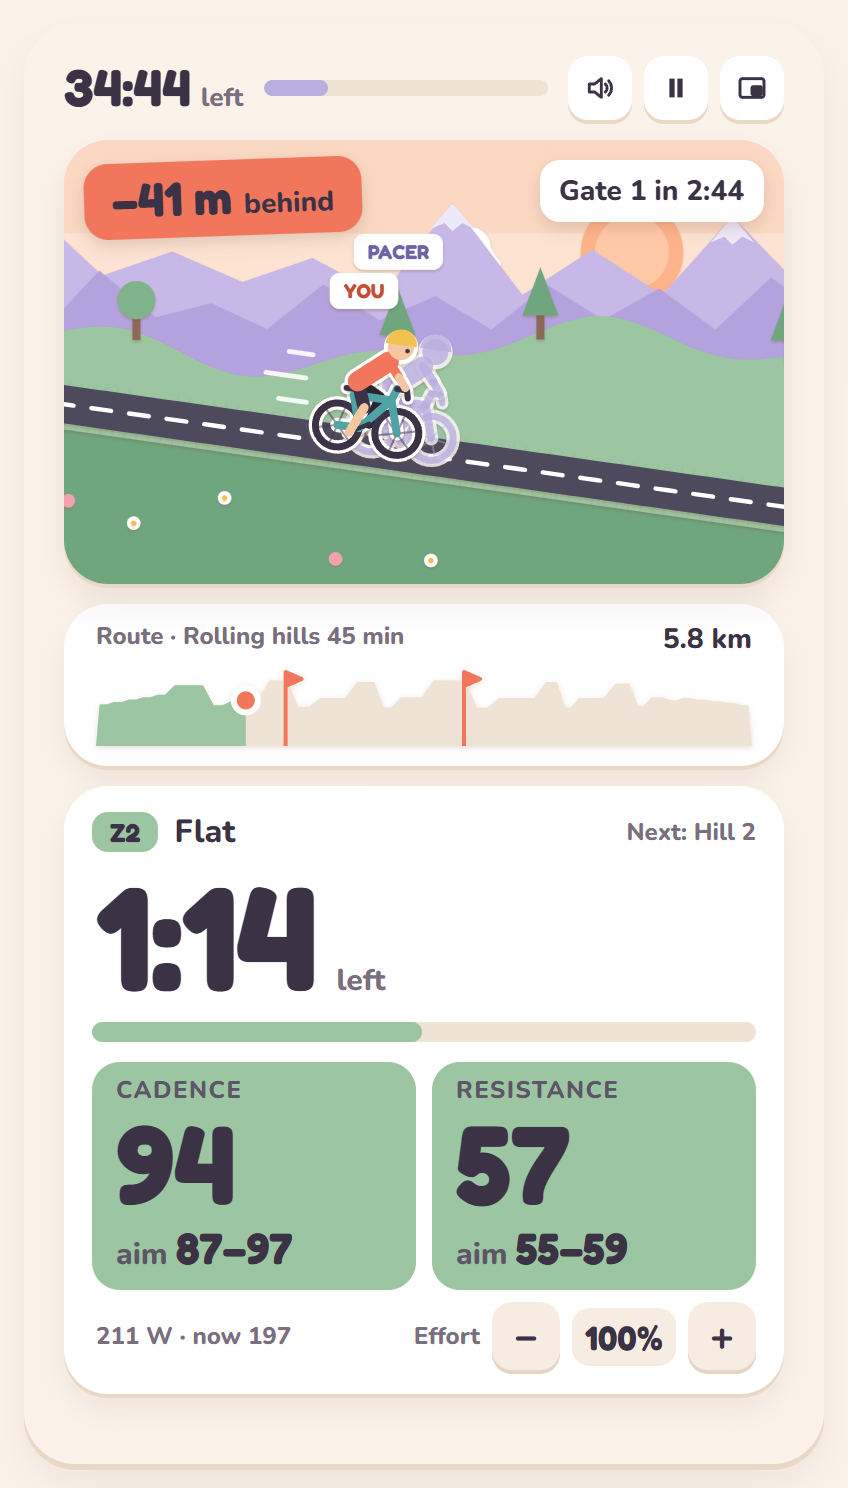
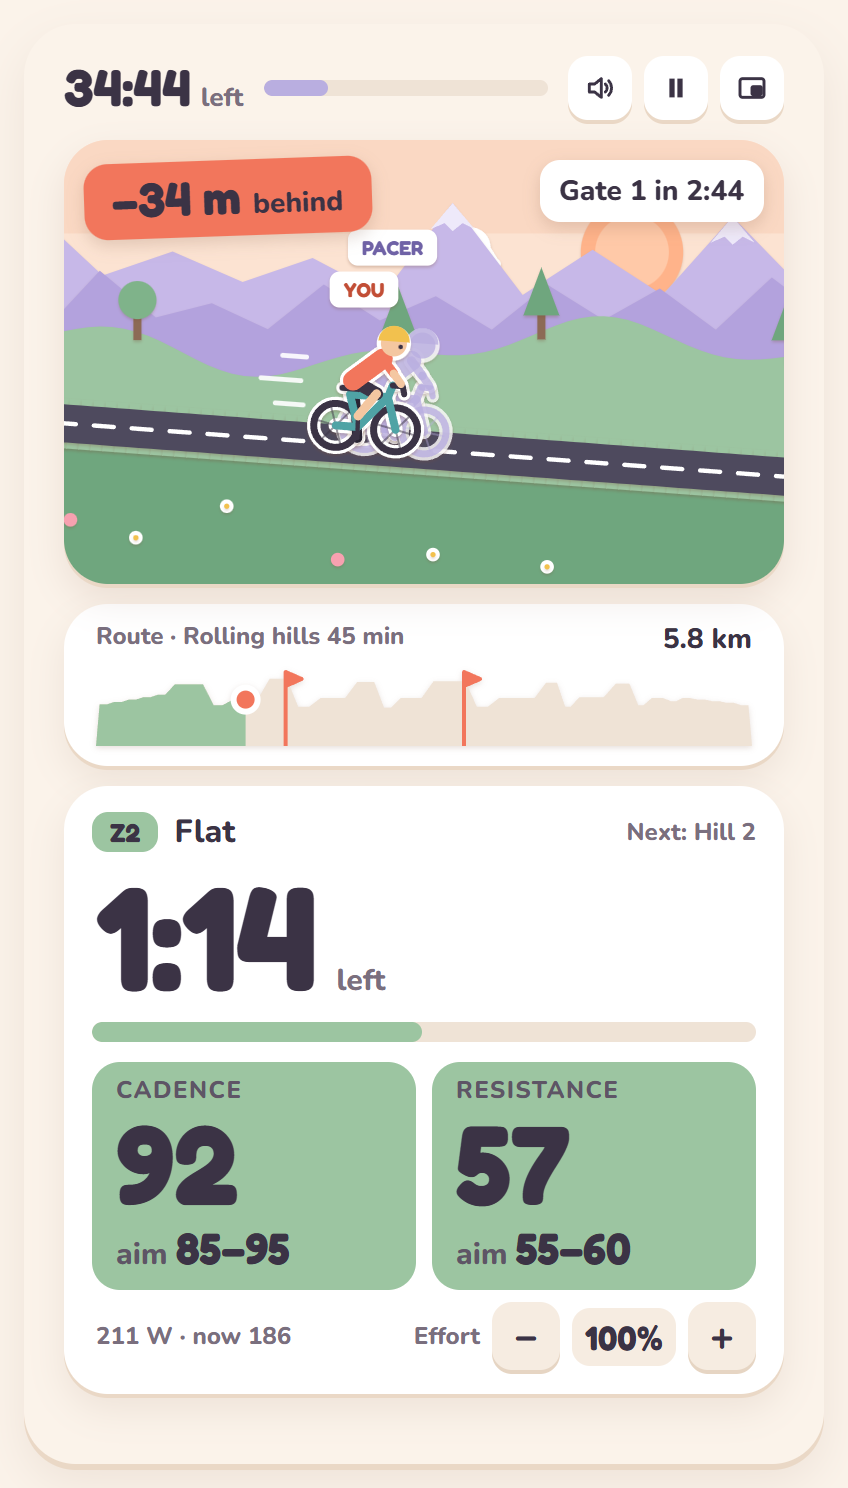
Targets in round numbers: cadence in fives, resistance in blocks of five
- Cadence targets are rounded to the nearest 5 and shown as a ten-wide
  range (80-90).
- Resistance is shown and judged as the block of five levels the exact
  target falls in (40-45). The exact target is kept underneath, so ride
  codes, the pacer ghost and the hills in the scene are unchanged.
- A creeping climb stays exact: one number, a level or two at a time.
- The voice calls the block: "Resistance 40 to 45, cadence 70."
- Effort moves in 10% steps, about one resistance block, and the
  resistance target flashes when its block moves.

Claude-Session: https://claude.ai/code/session_019bcLdA25aR7snsdYMj9RXw

diff --git a/src/core/ride.js b/src/core/ride.js
@@ -5,15 +5,19 @@ import { stepSpeed } from './physics.js';
 import { segmentIndexAt, zoneOf } from './workout.js';
 import { resistanceFor, powerFor } from './resistance.js';
 import { targetWatts } from './ghost.js';
+import { roundTo } from './util.js';
 
 const STALE_INPUT_S = 3;
 const STEP_WARNING_S = 10;
 export const SHORT_STEP_S = 25;
+// Targets are given in round numbers, the way an instructor calls them: a
+// cadence range like 80-90 and a resistance block like 40-45.
+const ROUND_TO = 5;
 const CADENCE_TOLERANCE = 5;
-const RESISTANCE_TOLERANCE = 2;
+const CREEP_TOLERANCE = 1; // a creeping climb moves a level or two at a time, so it is exact
 export const EFFORT_MIN = 0.5;
 export const EFFORT_MAX = 1.5;
-export const EFFORT_STEP = 0.05;
+export const EFFORT_STEP = 0.1; // about one resistance block
 
 /**
  * What to aim for in a step: power, cadence, and the resistance that gives that
@@ -21,33 +25,51 @@ export const EFFORT_STEP = 0.05;
  * Steps marked `hold` keep the previous step's resistance; their watts follow
  * from the lower cadence.
  */
+/**
+ * The block of five resistance levels that holds `resistance`: [40, 45] for 43.
+ * `cap` is the highest level allowed (100, or lower for a gentle ride).
+ */
+export function resistanceBlock(resistance, cap = 100) {
+  const lo = Math.min(Math.floor(resistance / ROUND_TO) * ROUND_TO, cap - ROUND_TO);
+  return [Math.max(1, lo), lo + ROUND_TO];
+}
+
 export function stepTargets(seg, segments, baselineW, model) {
-  const cadence = seg.cadence ?? 85;
+  const cadence = roundTo(seg.cadence ?? 85, ROUND_TO);
   let watts = targetWatts(seg, baselineW);
-  let resistance = Math.round(resistanceFor(model, watts, cadence));
+  // The exact resistance the model works out; the rider is shown the block it falls in.
+  let exact = resistanceFor(model, watts, cadence);
   if (seg.hold) {
     // Back to the step that set the resistance, through any others that held it.
     let i = segments.indexOf(seg) - 1;
     while (i > 0 && segments[i].hold) i--;
     const base = segments[i];
     if (base && !base.hold) {
-      resistance = stepTargets(base, segments, baselineW, model).resistance;
-      watts = powerFor(model, resistance, cadence);
+      exact = stepTargets(base, segments, baselineW, model).exactResistance;
+      watts = powerFor(model, exact, cadence);
     }
   }
-  if (seg.resistanceCap && resistance > seg.resistanceCap) {
-    resistance = seg.resistanceCap;
-    watts = powerFor(model, resistance, cadence);
+  const cap = seg.resistanceCap ?? 100;
+  if (exact > cap) {
+    exact = cap;
+    watts = powerFor(model, exact, cadence);
   }
+  const resistance = Math.round(exact);
   const wattsTol = Math.max(10, watts * 0.06);
   const sprint = seg.kind === 'sprint';
+  const [lo, hi] = seg.creep
+    ? [Math.max(1, resistance - CREEP_TOLERANCE), Math.min(cap, resistance + CREEP_TOLERANCE)]
+    : resistanceBlock(exact, cap);
   // The ranges that count as on target. Sprints have no upper limit.
   return {
     watts: Math.round(watts),
     cadence,
     resistance,
+    exactResistance: exact,
+    // A creeping climb is called as one number ("aim 37"), not a block.
+    resistanceIsExact: !!seg.creep,
     cadenceRange: [cadence - CADENCE_TOLERANCE, sprint ? null : cadence + CADENCE_TOLERANCE],
-    resistanceRange: [Math.max(1, resistance - RESISTANCE_TOLERANCE), sprint ? null : Math.min(100, resistance + RESISTANCE_TOLERANCE)],
+    resistanceRange: [lo, sprint ? null : hi],
     wattsRange: sprint ? [Math.round(baselineW * 1.2), null] : [Math.round(watts - wattsTol), Math.round(watts + wattsTol)],
   };
 }
@@ -250,15 +272,14 @@ export class RideSession {
    */
   status(seg, powerW, cadence, resistance) {
     const tg = this.targetsFor(seg);
-    const sprint = seg.kind === 'sprint';
-    const judge = (have, want, tol) => {
+    // Inside the range is on target; a range with no top (a sprint) can't be overshot.
+    const judge = (have, [lo, hi]) => {
       if (have === null) return null;
-      if (sprint) return have >= want - tol ? 'on' : 'low';
-      if (Math.abs(have - want) <= tol) return 'on';
-      return have < want ? 'low' : 'high';
+      if (have < lo) return 'low';
+      return hi !== null && have > hi ? 'high' : 'on';
     };
-    const cadenceStatus = judge(cadence, tg.cadence, CADENCE_TOLERANCE);
-    const resistanceStatus = judge(resistance === null ? null : Math.round(resistance), tg.resistance, RESISTANCE_TOLERANCE);
+    const cadenceStatus = judge(Math.round(cadence), tg.cadenceRange);
+    const resistanceStatus = judge(resistance === null ? null : Math.round(resistance), tg.resistanceRange);
     // On target if the power is right, or if cadence and resistance both match the plan.
     const onTarget = isOnTarget(seg, this.effectiveBaselineW, powerW, cadence) || (cadenceStatus === 'on' && resistanceStatus === 'on');
     return { targets: tg, cadenceStatus, resistanceStatus, onTarget };
@@ -309,6 +330,7 @@ export class RideSession {
       targetResistance: tg.resistance,
       cadenceRange: tg.cadenceRange,
       resistanceRange: tg.resistanceRange,
+      resistanceIsExact: tg.resistanceIsExact,
       wattsRange: tg.wattsRange,
       effort: this.effort,
       powerW: Math.round(powerW),

diff --git a/test/ride.test.js b/test/ride.test.js
@@ -3,7 +3,7 @@ import assert from 'node:assert/strict';
 import { generateWorkout } from '../src/core/workout.js';
 import { DEFAULT_MODEL, powerFor } from '../src/core/resistance.js';
 import { Ghost, pacerGhost, targetWatts } from '../src/core/ghost.js';
-import { RideSession, isOnTarget, stepTargets } from '../src/core/ride.js';
+import { RideSession, isOnTarget, stepTargets, resistanceBlock } from '../src/core/ride.js';
 import { formatRange, spokenCue, stepAction } from '../src/core/cues.js';
 import { speedFromPower } from '../src/core/physics.js';
 import { Storage } from '../src/core/storage.js';
@@ -97,7 +97,9 @@ test('resistance and cadence are each judged against their own range', () => {
   assert.equal(snap.resistance, 38);
   assert.equal(snap.resistanceStatus, 'low');
   assert.equal(snap.cadenceStatus, 'on');
-  assert.deepEqual(snap.resistanceRange, [snap.targetResistance - 2, snap.targetResistance + 2]);
+  // The target is shown as the block of five levels it falls in.
+  const [lo, hi] = snap.resistanceRange;
+  assert.ok(lo % 5 === 0 && hi - lo === 5 && lo <= snap.targetResistance && snap.targetResistance <= hi);
   assert.deepEqual(snap.cadenceRange, [75, 85]);
 
   const tk = snap.targetResistance;
@@ -146,16 +148,16 @@ test('effort control scales power and resistance targets, not cadence', () => {
   const s = new RideSession({ workout: w, baselineW: 200, model: DEFAULT_MODEL, ghost: pacerGhost(w, 200) });
   const climb = w.segments.find((x) => x.kind === 'work');
   const base = s.targetsFor(climb);
-  assert.equal(s.nudgeEffort(+2), 1.1);
+  assert.equal(s.nudgeEffort(+1), 1.1);
   const harder = s.targetsFor(climb);
   assert.equal(harder.watts, Math.round(base.watts * 1.1));
   assert.equal(harder.cadence, base.cadence);
   assert.ok(harder.resistance > base.resistance);
   assert.equal(s.snapshot().effort, 1.1);
-  // Clamped and snapped to 5% steps.
+  // Clamped and snapped to 10% steps.
   assert.equal(s.setEffort(2), 1.5);
   assert.equal(s.setEffort(0.1), 0.5);
-  assert.equal(s.setEffort(1.02), 1);
+  assert.equal(s.setEffort(1.04), 1);
   for (let i = 0; i < 20; i++) s.nudgeEffort(-1);
   assert.equal(s.effort, 0.5);
 });
@@ -371,4 +373,42 @@ test('the backup carries the calibration with the rides and settings', async () 
   assert.equal(b.loadSettings().baselineW, 319);
   assert.equal(b.loadCalibration().bike, 'IC Bike');
   assert.deepEqual(b.loadCalibration().bins, a.loadCalibration().bins);
+});
+
+test('targets come in round numbers: cadence to the nearest 5, resistance in blocks of 5', () => {
+  assert.deepEqual(resistanceBlock(43.2), [40, 45]);
+  assert.deepEqual(resistanceBlock(45), [45, 50]);
+  assert.deepEqual(resistanceBlock(3), [1, 5]);
+  assert.deepEqual(resistanceBlock(100), [95, 100]);
+  assert.deepEqual(resistanceBlock(50, 50), [45, 50]); // never above a cap
+
+  for (const type of ['hills', 'mountain', 'spinclass', 'fartlek']) {
+    const w = generateWorkout(type, 45, 0);
+    for (const seg of w.segments) {
+      const t = stepTargets(seg, w.segments, 250, DEFAULT_MODEL);
+      assert.equal(t.cadence % 5, 0, `${w.code} ${seg.label} cadence ${t.cadence}`);
+      assert.equal(t.cadenceRange[0] % 5, 0);
+      if (seg.creep) continue;
+      const [lo, hi] = t.resistanceRange;
+      assert.ok(lo === 1 || lo % 5 === 0, `${w.code} ${seg.label} block from ${lo}`);
+      if (hi !== null) assert.ok(hi % 5 === 0 && t.resistance >= lo && t.resistance <= hi);
+    }
+  }
+});
+
+test('a creeping climb is called as one exact number, a level or two at a time', () => {
+  const segs = [0, 1, 2, 3].map((i) => ({ kind: 'work', dur: 20, pct: 72 + i * 3.5, cadence: 80, creep: true, label: `Creep ${i + 1}/4` }));
+  const ts = segs.map((seg) => stepTargets(seg, segs, 250, DEFAULT_MODEL));
+  for (const t of ts) {
+    assert.equal(t.resistanceIsExact, true);
+    assert.deepEqual(t.resistanceRange, [t.resistance - 1, t.resistance + 1]);
+  }
+  for (let i = 1; i < ts.length; i++) assert.ok(ts[i].resistance - ts[i - 1].resistance >= 1 && ts[i].resistance - ts[i - 1].resistance <= 3);
+  assert.equal(spokenCue(segs[1], ts[1], 'resistance', segs[0]), `Resistance ${ts[1].resistance}.`);
+});
+
+test('the voice calls the resistance block', () => {
+  const seg = { kind: 'work', dur: 120, label: 'Hill 2 of 7' };
+  const tg = { resistance: 43, resistanceRange: [40, 45], cadence: 70, watts: 260 };
+  assert.equal(spokenCue(seg, tg), 'Hill. Resistance 40 to 45, cadence 70.');
 });

diff --git a/src/ui/pace.js b/src/ui/pace.js
@@ -2,6 +2,8 @@
 
 import { parseWorkoutCode, hasBlocks } from '../core/workout.js';
 import { resistanceFor, powerFor } from '../core/resistance.js';
+import { resistanceBlock } from '../core/ride.js';
+import { formatRange } from '../core/cues.js';
 import { storage, settings, saveSettings, reloadFromStorage, activeModel, state } from './store.js';
 import { $, toast } from './dom.js';
 import { renderSetup } from './setup.js';
@@ -14,9 +16,9 @@ import { updateMute } from './ride-view.js';
 
 const EASY_PCT = 0.55; // an easy spin as a share of the baseline, as in recovery steps
 const PACE_EXAMPLES = [
-  { name: 'Recovery spin', pct: 0.55, cadence: 92 },
-  { name: 'Flat road', pct: 0.7, cadence: 88 },
-  { name: 'Seated climb', pct: 0.9, cadence: 68 },
+  { name: 'Recovery spin', pct: 0.55, cadence: 90 },
+  { name: 'Flat road', pct: 0.7, cadence: 90 },
+  { name: 'Seated climb', pct: 0.9, cadence: 70 },
   // The same watts ridden two ways: heavy and slow, or light and fast.
   { name: 'Hill climb', pct: 1.05, cadence: 65 },
   { name: 'Downhill sprint', pct: 1.05, cadence: 100 },
@@ -39,7 +41,7 @@ function renderPace() {
   const baselineW = baselineFor(pace.resistance, pace.cadence);
   $('pace-rows').innerHTML = PACE_EXAMPLES.map(({ name, pct, cadence }) => {
     const watts = baselineW * pct;
-    return `<tr><td>${name}</td><td>resistance ${Math.round(resistanceFor(activeModel(), watts, cadence))} at ${cadence} rpm</td><td>${Math.round(watts)} W</td></tr>`;
+    return `<tr><td>${name}</td><td>resistance ${formatRange(resistanceBlock(resistanceFor(activeModel(), watts, cadence)))} at ${cadence} rpm</td><td>${Math.round(watts)} W</td></tr>`;
   }).join('');
   $('pace-note').textContent = activeModel().calibrated
     ? 'The hill climb and the downhill sprint are the same watts: one is heavy and slow, the other light and fast. Watts are as the bike reports them.'

diff --git a/src/ui/ride-view.js b/src/ui/ride-view.js
@@ -318,7 +318,7 @@ function renderTiles(snap) {
     setTile('a', cadenceTile);
     setTile('b', {
       label: estimate ? 'Resistance · est.' : 'Resistance',
-      aim: formatRange(snap.resistanceRange),
+      aim: snap.resistanceIsExact ? String(snap.targetResistance) : formatRange(snap.resistanceRange),
       now: resistanceNow,
       status: live ? snap.resistanceStatus : '',
     });
@@ -525,11 +525,16 @@ function nudgeEffort(steps) {
   const s = state.session;
   if (!s || state.screen !== 'ride') return;
   const before = s.effort;
+  const blockBefore = String(s.snapshot().resistanceRange);
   if (s.nudgeEffort(steps) === before) return;
-  const dv = $('ride-effort');
-  dv.classList.remove('flash');
-  void dv.offsetWidth; // restart the animation
-  dv.classList.add('flash');
+  // Flash what changed: the effort, and the resistance tile if its block moved.
+  const changed = [$('ride-effort')];
+  if (String(s.snapshot().resistanceRange) !== blockBefore) changed.push($('tile-b-aim'));
+  for (const el of changed) {
+    el.classList.remove('flash');
+    void el.offsetWidth; // restart the animation
+    el.classList.add('flash');
+  }
   applyTerrain();
   state.lastDom = 0;
 }

diff --git a/src/core/cues.js b/src/core/cues.js
@@ -43,7 +43,7 @@ export function spokenCue(seg, targets, mode = 'resistance', prev = null, repeat
     ? `Same resistance, cadence ${targets.cadence}.`
     : mode === 'watts'
       ? `${targets.watts} watts, cadence ${targets.cadence}.`
-      : `Resistance ${targets.resistance}, cadence ${targets.cadence}.`;
+      : `Resistance ${saidResistance(targets)}, cadence ${targets.cadence}.`;
 
   const opens = !!(seg.blockStart && seg.block && seg.block !== 'Recovery');
   const intro = opens ? `${seg.block}${seg.rounds ? `, ${seg.rounds} rounds` : ''}. ` : '';
@@ -66,6 +66,12 @@ export function spokenCue(seg, targets, mode = 'resistance', prev = null, repeat
   }
   if (repeat) return `${name}.${saddle}`;
   return `${intro}${named}${saddle} ${numbers}`.replace(/\s+/g, ' ').trim();
+}
+
+/** "40 to 45", or the one number where a step is exact (or has no upper limit). */
+function saidResistance(targets) {
+  const [lo, hi] = targets.resistanceRange ?? [];
+  return targets.resistanceIsExact || lo === undefined || hi === null ? String(targets.resistance) : `${lo} to ${hi}`;
 }
 
 /** Whether this step repeats one already ridden in the same spin class block. */

diff --git a/styles/app.css b/styles/app.css
@@ -357,7 +357,8 @@ main { padding: 0 32px 40px; }
 .effort-val { min-width: 52px; text-align: center; padding: 4px 6px; border-radius: 9px; font-family: var(--display); font-weight: 700; font-size: 17px; font-variant-numeric: tabular-nums; background: var(--sand); }
 .effort-val.up { background: #F7B3A4; }
 .effort-val.down { background: #C9D8F7; }
-.effort-val.flash { animation: effort-flash 0.5s ease-out; }
+.effort-val.flash, .num-aim b.flash { animation: effort-flash 0.5s ease-out; }
+.num-aim b { display: inline-block; }
 @keyframes effort-flash { from { transform: scale(1.25); } to { transform: scale(1); } }
 .route { padding: 8px 16px 10px; display: flex; flex-direction: column; gap: 4px; }
 .route-head { display: flex; justify-content: space-between; font-size: 12px; font-weight: 800; color: var(--muted); }

diff --git a/test/spinclass.test.js b/test/spinclass.test.js
@@ -176,7 +176,7 @@ test('a block gives its numbers once, then just names the steps it repeats', () 
   const { w, steps } = findBlock('Cadence pushes');
   const at = (seg) => w.segments.indexOf(seg);
   const say = (seg) => spokenCue(seg, stepTargets(seg, w.segments, 300, DEFAULT_MODEL), 'resistance', w.segments[at(seg) - 1], repeatsInBlock(w.segments, at(seg)));
-  assert.match(say(steps[0]), /^Cadence pushes, \d rounds\. Settle\. Resistance \d+, cadence \d+\.$/);
+  assert.match(say(steps[0]), /^Cadence pushes, \d rounds\. Settle\. Resistance \d+ to \d+, cadence \d+\.$/);
   assert.match(say(steps[1]), /^Cadence push\. Same resistance, cadence \d+\.$/);
   assert.equal(say(steps[2]), 'Settle.');
   assert.equal(say(steps[3]), 'Cadence push.');
